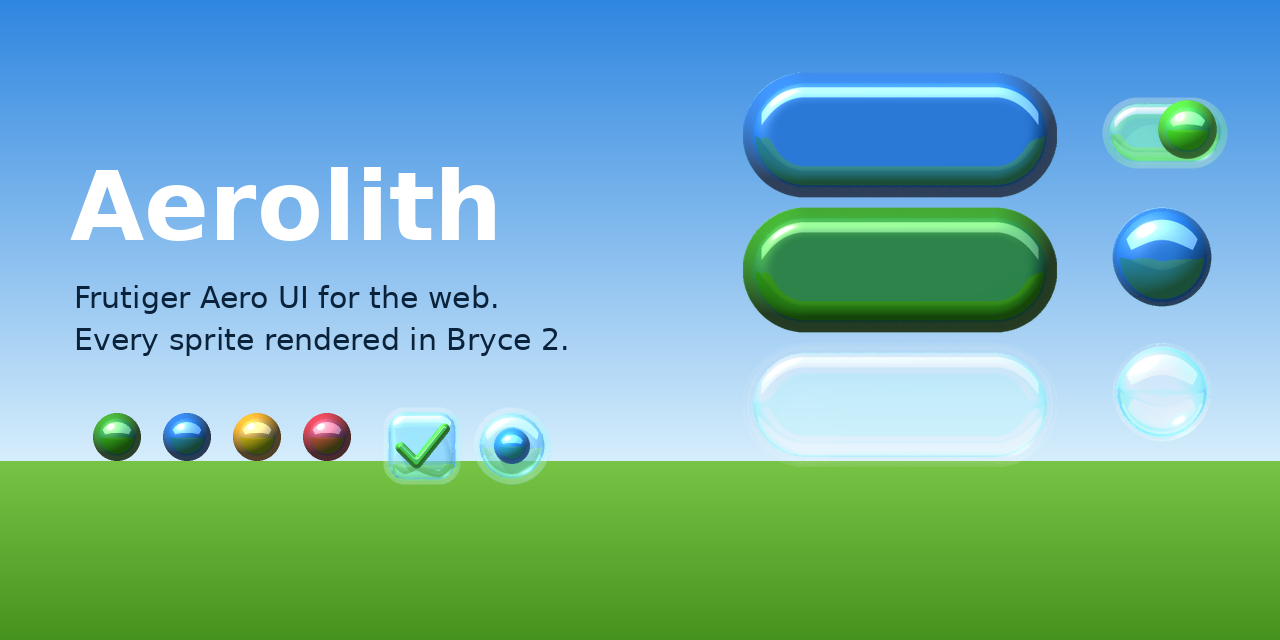
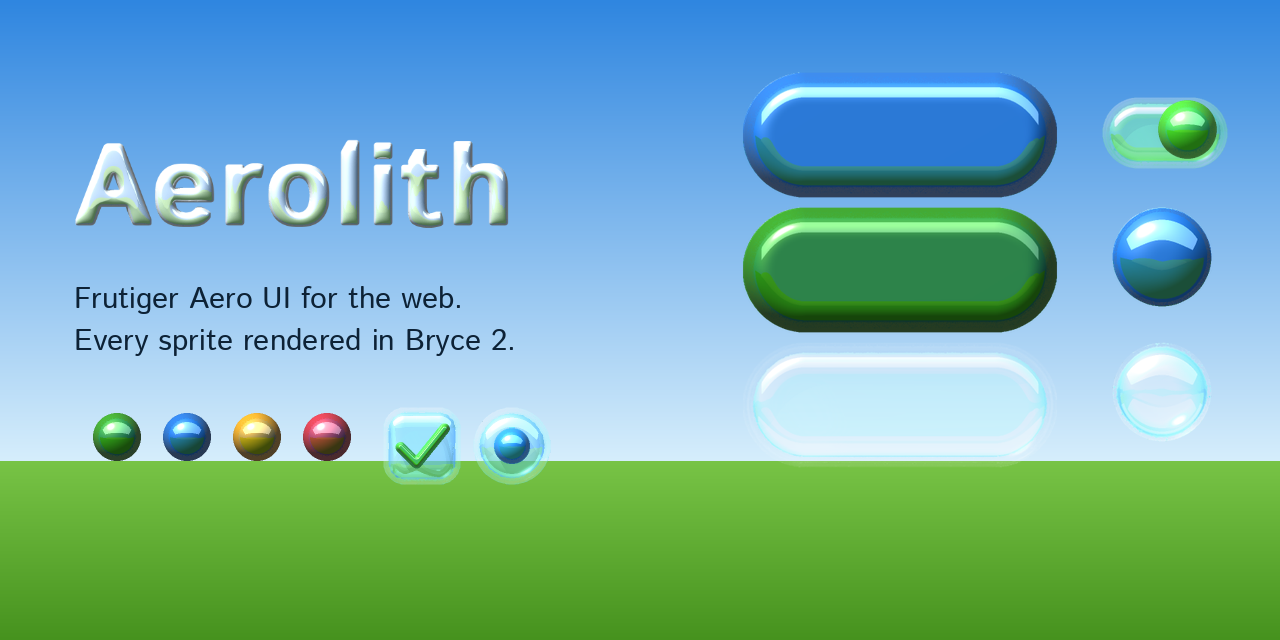
Release 1.1.0: docs, preview images, packaging
- README: Type section, font licences, download size, self-hosting with fonts/
- preview images and social card re-shot with the new type
- package.json, pyproject, Python staging and the release zip include the fonts; version 1.1.0

Claude-Session: https://claude.ai/code/session_01Eb7NfzvXEsLLBSVyBqPUp6

Changed region(s): [[0.0312, 0.2188, 0.4062, 0.375], [0.0625, 0.4375, 0.4375, 0.5625]]

diff --git a/python/stage.py b/python/stage.py
@@ -12,5 +12,6 @@ DEST.mkdir(parents=True)
 for name in ("aerolith.css", "aerolith.js", "sprites.json"):
     shutil.copy2(DIST / name, DEST / name)
 shutil.copytree(DIST / "sprites", DEST / "sprites")
+shutil.copytree(DIST / "fonts", DEST / "fonts")
 shutil.copy2(HERE.parent / "LICENSE", HERE / "LICENSE")
 print(f"staged {sum(1 for _ in DEST.rglob('*'))} files -> {DEST}")

diff --git a/python/src/aerolith/__init__.py b/python/src/aerolith/__init__.py
@@ -11,7 +11,7 @@ FastAPI / Starlette: ``app.mount("/aerolith", StaticFiles(directory=static_dir()
 """
 from pathlib import Path
 
-__version__ = "1.0.0"
+__version__ = "1.1.0"
 __all__ = ["static_dir", "css_path", "js_path", "__version__"]
 
 

diff --git a/README.md b/README.md
@@ -23,9 +23,9 @@ There's no build step. Link the stylesheet, and the script if you want the extra
 ```
 
 jsDelivr also serves the files straight from GitHub
-(`https://cdn.jsdelivr.net/gh/immineal/aerolith@v1.0.0/library/dist/aerolith.css`), and the
-release zip has them too. If you host them yourself, keep `sprites/` next to `aerolith.css`,
-because the CSS looks for the images relative to itself.
+(`https://cdn.jsdelivr.net/gh/immineal/aerolith@v1.1.0/library/dist/aerolith.css`), and the
+release zip has them too. If you host them yourself, keep `sprites/` and `fonts/` next to
+`aerolith.css`, because the CSS looks for the images and fonts relative to itself.
 
 Then put the classes on ordinary elements:
 
@@ -102,6 +102,35 @@ call `window.Aerolith.init(container)` so the script picks them up.
 | `.aer-bar` | `<header>`, `<nav>` | |
 | `.aer-lens` | any block | rim refraction in Chromium |
 | `.aer-compare` | two `<img>` and an `<input type="range">` | |
+| `.aer-display` (+ `.aer-aqua`, `.aer-glass`, `.aer-pearl`) | any heading | 116 characters, Latin with German and French accents |
+
+### Type
+
+Titles are set in **Aerolith Display**, gel letters I rendered in Bryce one by one, like the
+buttons. They're packed into a colour font, so a title is still real text that you can select,
+search and read with a screen reader. The letters are rendered at about 80 px per em and look best
+from 32 px up, so use them for headings, not paragraphs.
+
+```html
+<h1 class="aer-display">Welcome back</h1>            <!-- aqua; clear glass on dark pages -->
+<h2 class="aer-display aer-glass">Photos</h2>        <!-- clear glass: put colour or a photo behind it -->
+<p class="aer-display aer-pearl">Ready</p>           <!-- white, for coloured or photo backgrounds -->
+<p class="aer-display aer-aqua">Inbox</p>            <!-- aqua even on a dark page -->
+```
+
+Glass is see-through, so on a plain pale page it all but disappears. On dark pages a plain
+`.aer-display` switches to the glass face, because the deep aqua blue sinks into the dark
+background there.
+
+Each material is two files: OpenType-SVG for Firefox and Safari, sbix bitmaps for Chrome and
+Edge. The CSS lists both with `tech()`, so a browser downloads only the one it can draw: about
+0.6 MB per material, and only for the materials a page actually uses. A browser without colour
+fonts shows the same title in heavy Istok.
+
+Everything else is set in **Istok Web**, bundled. If you prefer the Windows Vista and 7 look, put
+`data-aer-type="selawik"` on `<html>` (or any container) to switch to **Selawik**, Microsoft's
+open stand-in for Segoe UI. `.aer-glow` puts a soft halo of page colour behind text on busy
+backgrounds, like Vista's window titles.
 
 Dark mode follows the system setting. To force it, set `<html data-theme="dark">` (or `"light"`),
 or put `.aer-dark` on one part of the page. The sun and moon switch (`input[data-aer-theme]`) sets
@@ -191,8 +220,14 @@ How to set up the renderer is in [harness/README.md](harness/README.md). The des
 - **No React or Vue components.** You put the classes on your own elements.
 - **No icon font or SVGs.** The 35 icons are bitmaps at 16 and 24 px, and they get blurry if
   you scale them up.
+- **The display face is for titles.** Its letters are bitmaps too: sharp up to about 120 px on
+  a 2x screen, soft beyond that, and hard to read below 24 px. It covers Latin letters, digits,
+  common punctuation and German and French accents, nothing else.
 
 ## License
 
-MIT, for the code and the sprites. See [LICENSE](LICENSE). Bryce is a trademark of its owner.
+MIT, for the code and the sprites. See [LICENSE](LICENSE). The fonts in `library/dist/fonts/` are
+under the SIL Open Font License 1.1, and their licence files sit next to them. Istok Web is by
+Andrey V. Panov and Selawik by Microsoft; both ship unmodified. Aerolith Display is derived from
+Istok Web Bold, so it is OFL too. Bryce is a trademark of its owner.
 Aerolith has nothing to do with them officially and contains no part of the Bryce software.

diff --git a/CHANGELOG.md b/CHANGELOG.md
@@ -1,5 +1,17 @@
 # Changelog
 
+## 1.1.0 (2026-11-04)
+
+- Aerolith Display: gel letters rendered in Bryce, one isolated render per glyph, packed into
+  colour fonts (OpenType-SVG and sbix, picked with `tech()`). Three materials: aqua, glass (smoked
+  on dark pages) and pearl. Use `.aer-display` on headings; on dark pages it uses the glass face
+  unless you add `.aer-aqua`. Outlines are matted to the exact font outline, so they stay smooth
+  instead of following Bryce's heightfield grid.
+- Bundled text faces: Istok Web (default) and Selawik (`data-aer-type="selawik"`). Before, the
+  stack asked for Segoe UI and fell back to whatever the system had.
+- `.aer-glow` text halo.
+- Showcase: titles in Aerolith Display, a Type section with a text-face switch.
+
 ## 1.0.0 (2026-11-03)
 
 First release.
